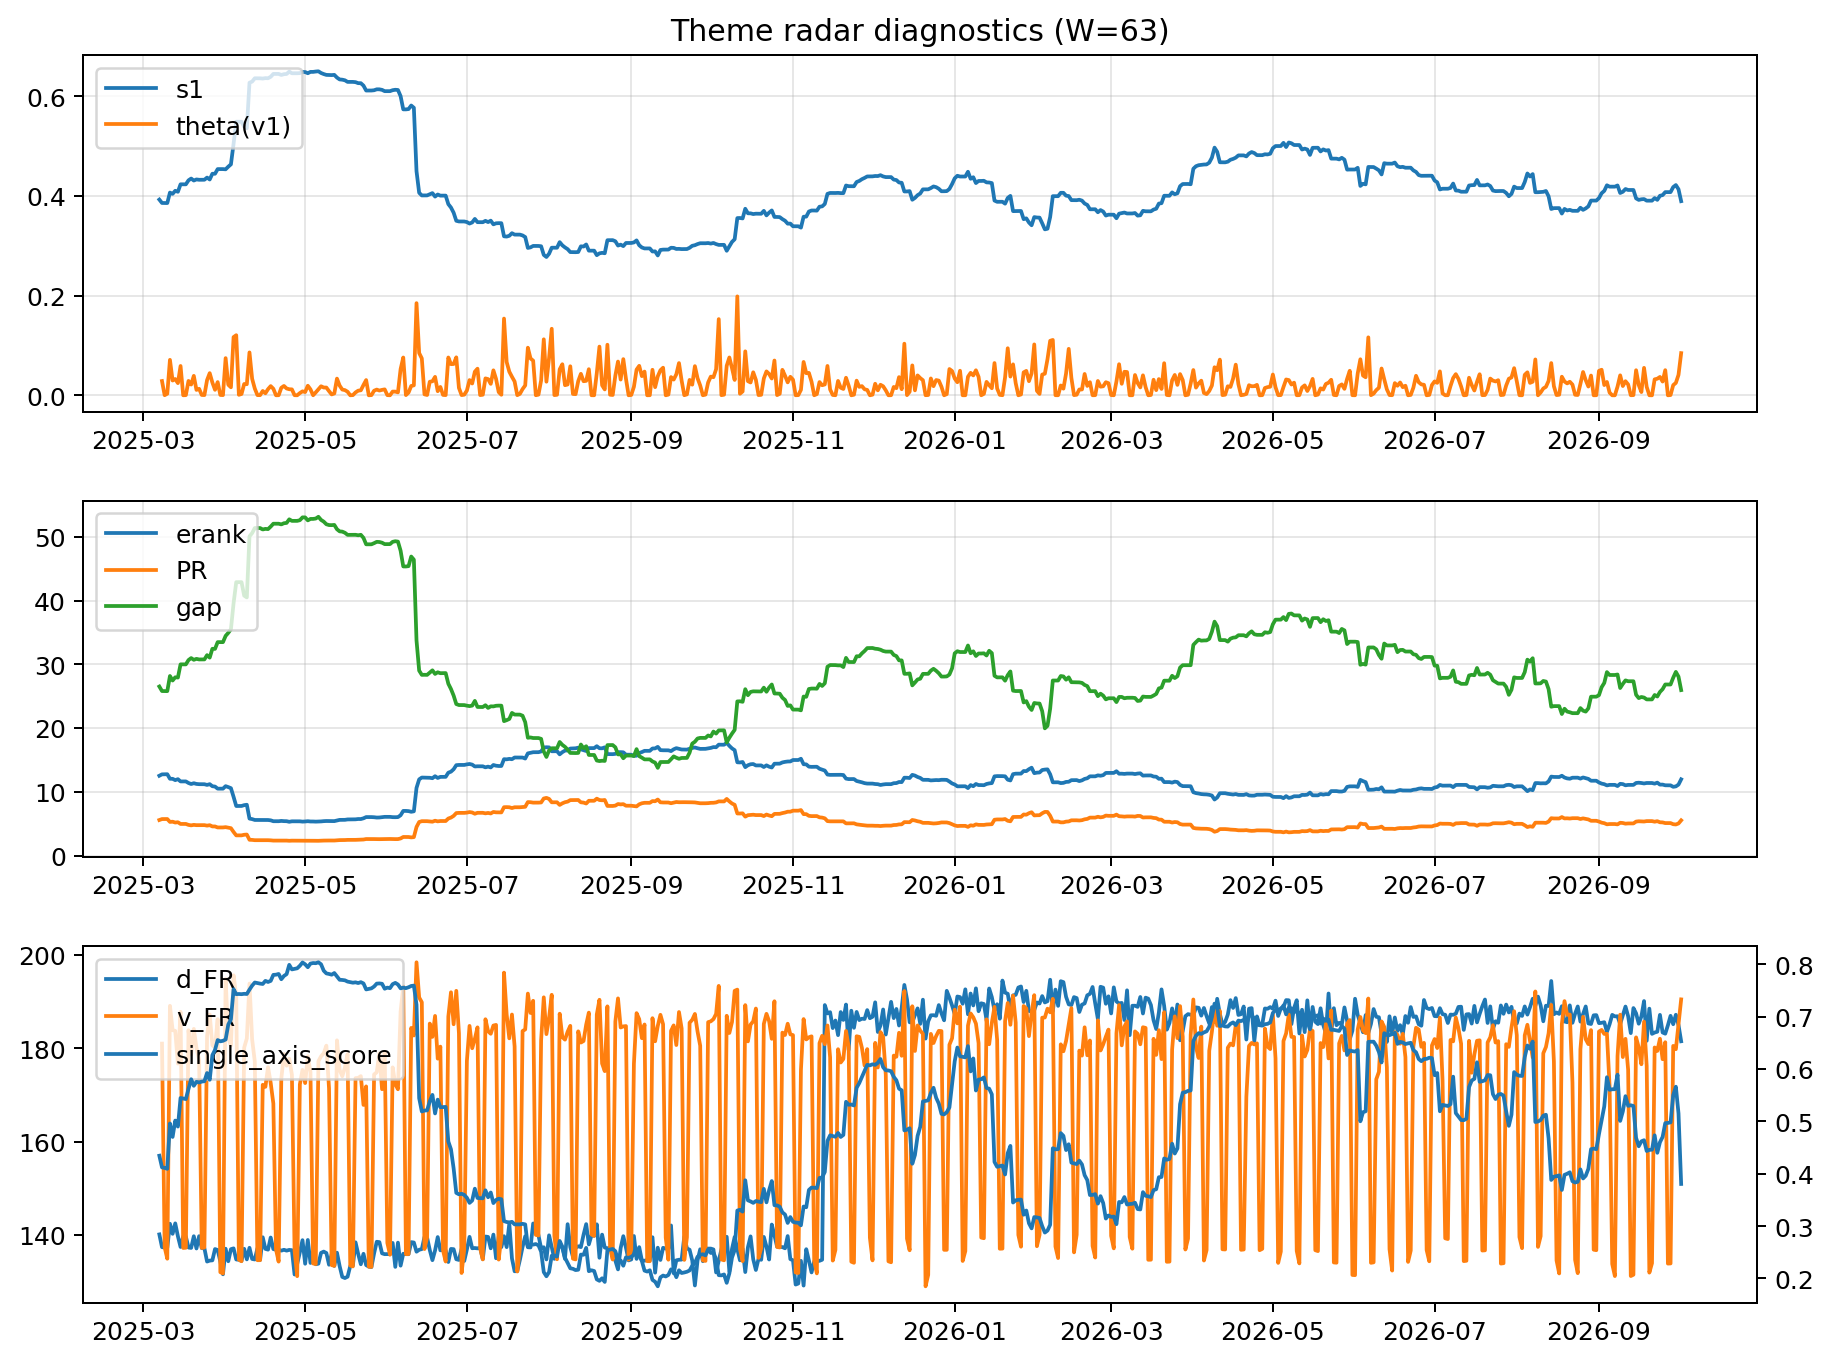
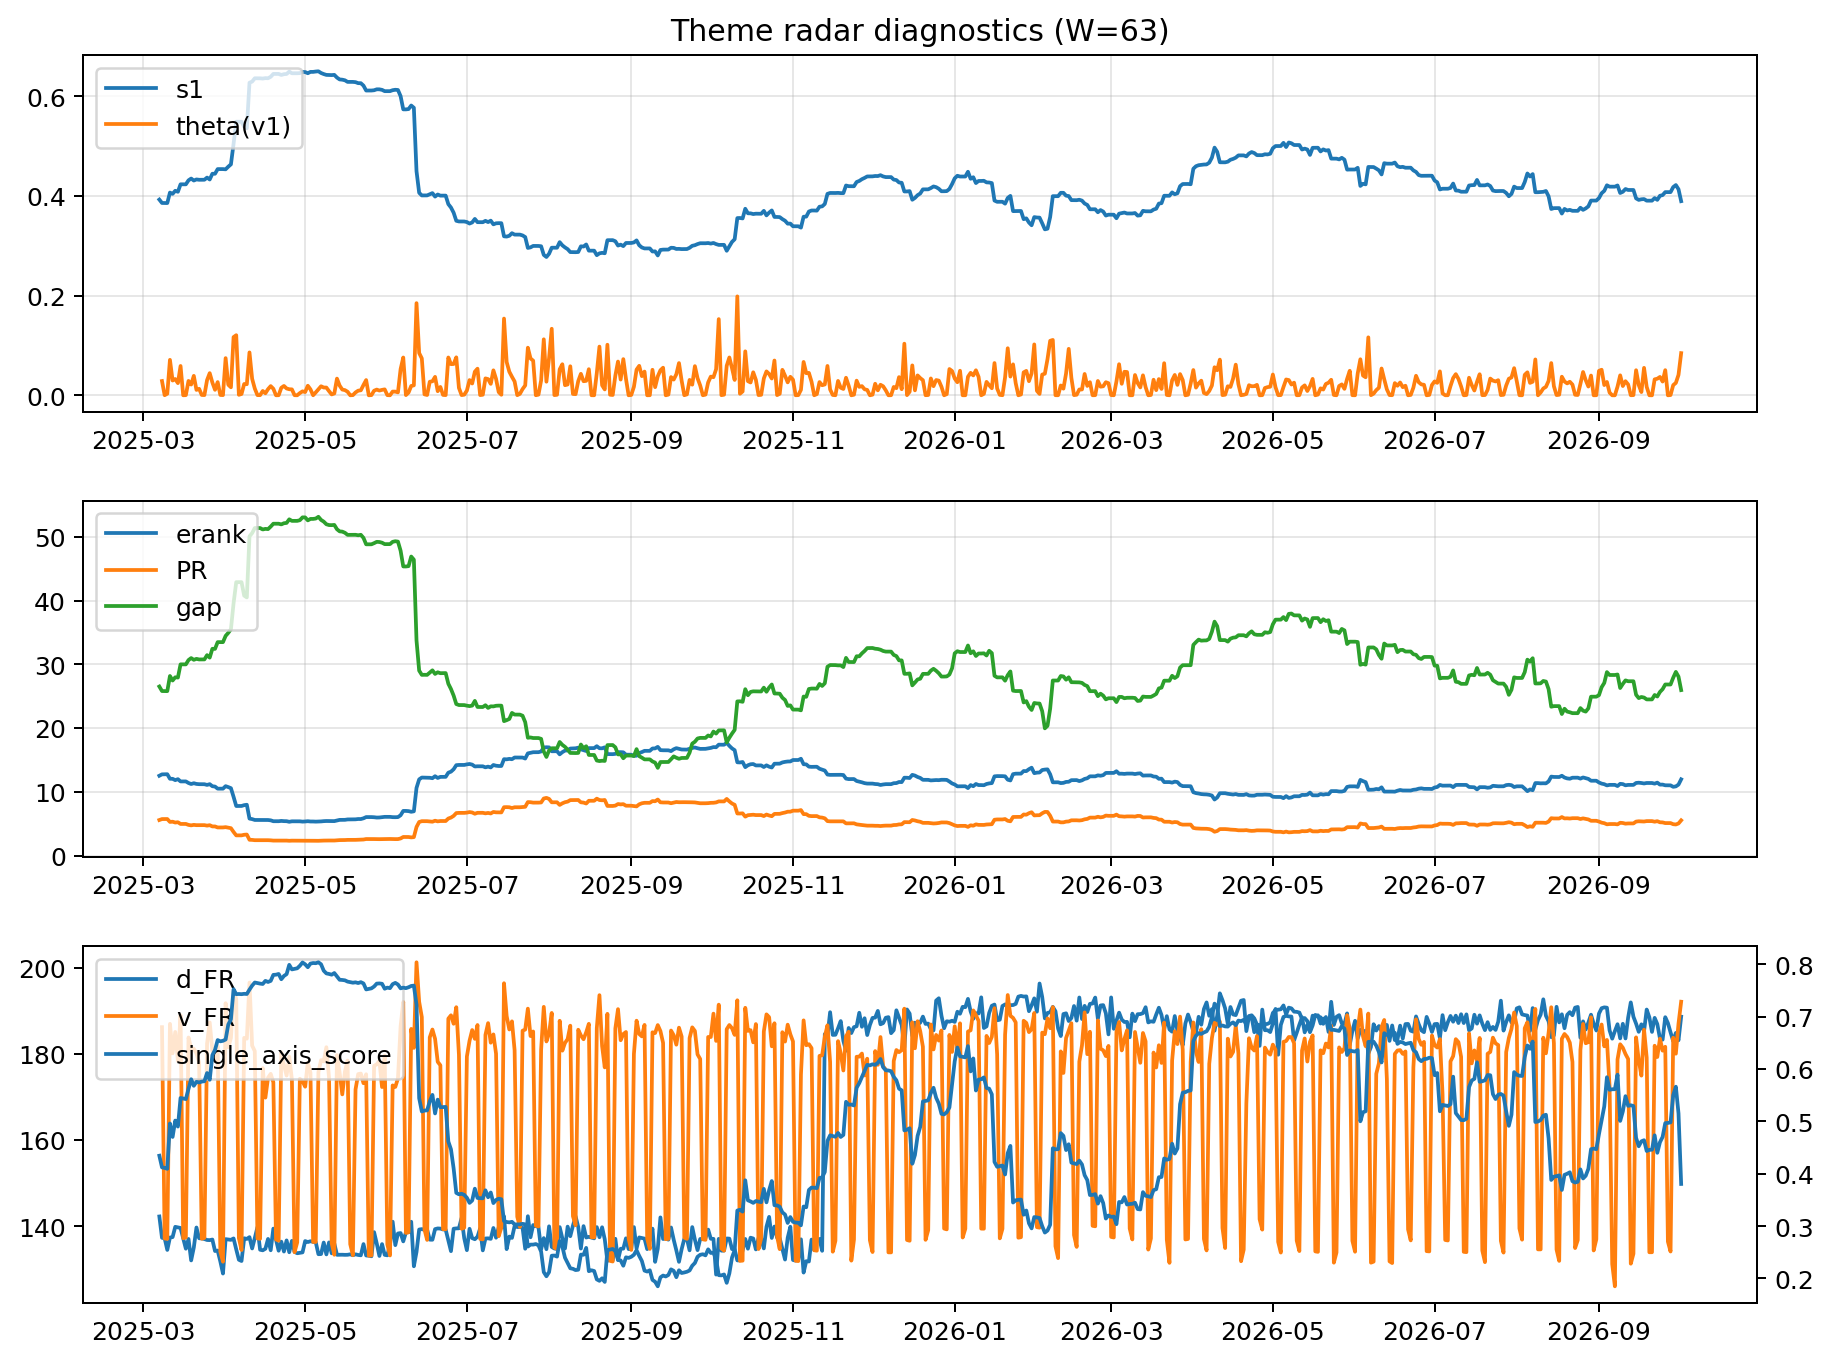
log: 2026-10-02 | sha256:699ee28db09aa865d6a10c7efdbfa569717485f3102f5d3a46fc6b5b40aaef39

diff --git a/logs/2026-10-02.md b/logs/2026-10-02.md
@@ -3,43 +3,43 @@
 ![diagnostic W63](../assets/diagnostic/2026-10-02_W63.png)
 
 ## Leaders (v1) — W=63
-- **Nuclear_Uranium** (0.0762717040128044)
-- Semis (0.0611237876238003)
-- Quantum (0.0586321403150133)
+- **Nuclear_Uranium** (0.0762717007900201)
+- Semis (0.0611237878827532)
+- Quantum (0.0586321404297938)
 
 ## Challengers — W=63
-**v2:** Genomics_Bio (0.0909415223314329), Semis (0.0846371278369711), Grid_Power (0.0775549836114437)
-**v3:** Software_Cloud (0.1066148862415225), MegaCap_AI (0.0832525164038159), Semis (0.0697928695851513)
+**v2:** Genomics_Bio (0.0909413750622528), Semis (0.0846372522684215), Grid_Power (0.0775549965237639)
+**v3:** Software_Cloud (0.1066146809310992), MegaCap_AI (0.0832525211919383), Semis (0.0697926358152809)
 
 ## Migration (20D slope) — W=63
 **Top risers:**
-- axis_Rates: 0.0009319482716697
-- axis_DataCenter_Infra: 0.0006448091980874
-- axis_Commodities: 0.0003080586901647
-- axis_Sector_RealEstate: 0.0003045091998753
-- axis_Sector_Utilities: 0.0002818913106872
-- axis_Credit: 0.0002460963534321
-- axis_Software_Cloud: 0.0002277496887281
-- axis_Sector_ConsDisc: 0.0001678145777977
-- axis_Sector_Materials: 0.0001656458420451
-- axis_Sector_Ind: 7.775316234763013e-05
+- axis_Rates: 0.0009319442889931
+- axis_DataCenter_Infra: 0.0006448093991111
+- axis_Commodities: 0.0003080588781961
+- axis_Sector_RealEstate: 0.0003045095401582
+- axis_Sector_Utilities: 0.0002818912764646
+- axis_Credit: 0.0002461019207463
+- axis_Software_Cloud: 0.0002277497014888
+- axis_Sector_ConsDisc: 0.0001678145542872
+- axis_Sector_Materials: 0.0001656457086592
+- axis_Sector_Ind: 7.775323008088158e-05
 
 **Top fallers:**
-- axis_Grid_Power: -0.0001634889345114
-- axis_Drones_Autonomy: -0.0001862769807509
-- axis_Metals: -0.0001932230600277
-- axis_Genomics_Bio: -0.0002287794652509
-- axis_Space: -0.0002445690129196
-- axis_Sector_ConsStap: -0.0002532404037734
-- axis_Crypto: -0.0002830788807081
-- axis_Quantum: -0.0003065336786101
-- axis_Semis: -0.0003661831241343
-- axis_Nuclear_Uranium: -0.0003887362182414
+- axis_Grid_Power: -0.0001634889443415
+- axis_Drones_Autonomy: -0.0001862771510594
+- axis_Metals: -0.0001932234632286
+- axis_Genomics_Bio: -0.0002287794990107
+- axis_Space: -0.0002445692090512
+- axis_Sector_ConsStap: -0.0002532404635803
+- axis_Crypto: -0.0002830790057932
+- axis_Quantum: -0.000306533986645
+- axis_Semis: -0.0003661832557649
+- axis_Nuclear_Uranium: -0.000388736432668
 
 ## Risk line (W=63)
-- s1: 0.3893940556983151
-- theta_v1: 0.0845678635210436
-- v_FR: 190.495085163408
+- s1: 0.3893939448040296
+- theta_v1: 0.084567885151766
+- v_FR: 192.06710476610203
 - single_axis_score: 0.3805217391304348
 
 ## Interpretation
@@ -48,7 +48,7 @@
 - Action: Tomorrow watchlist: Rates, DataCenter_Infra, Commodities, Sector_RealEstate, Sector_Utilities + v2_top1=Genomics_Bio
 - Action: Hedge note: v_FR high + theta high → correlation structure unstable; diversify hedges / reduce reliance on static correlations.
 
-- Percentiles (W=63 history): vfr_pct=0.96, theta_pct=0.96, s1_pct=0.37, score_pct=0.31.
+- Percentiles (W=63 history): vfr_pct=0.99, theta_pct=0.96, s1_pct=0.37, score_pct=0.31.
 
 ---
[2 lines of base64/hex data omitted]
